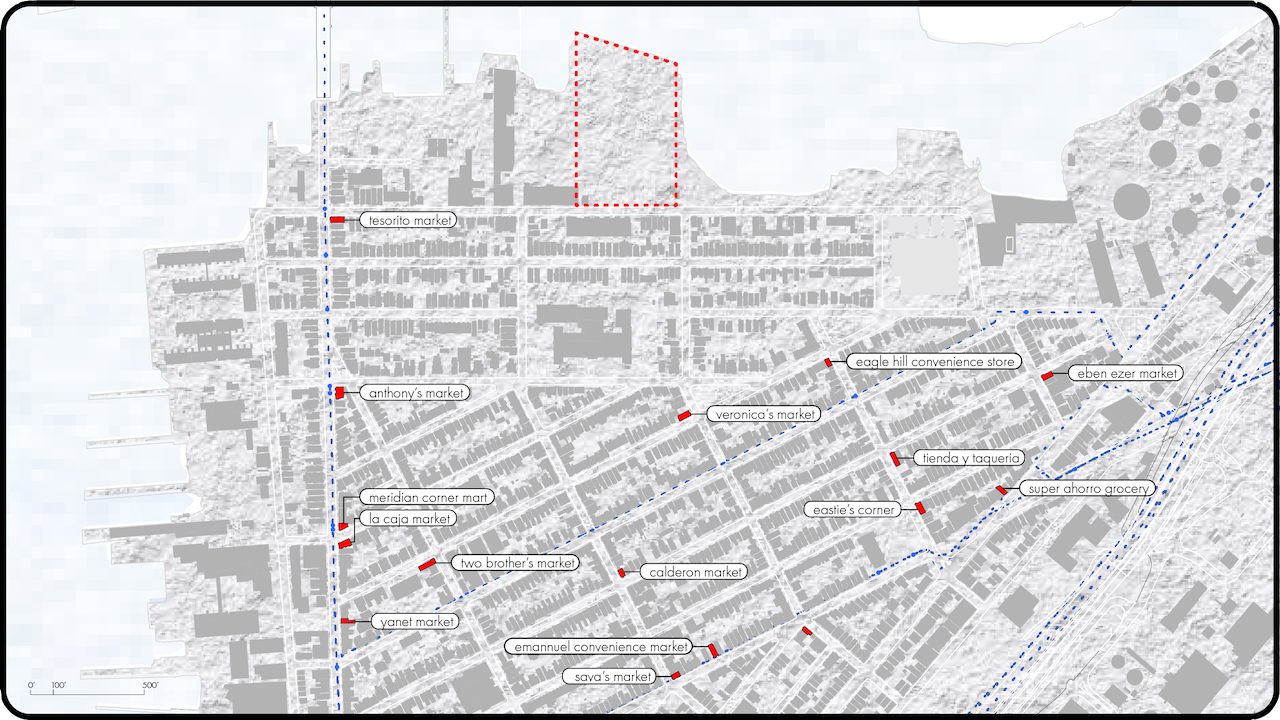
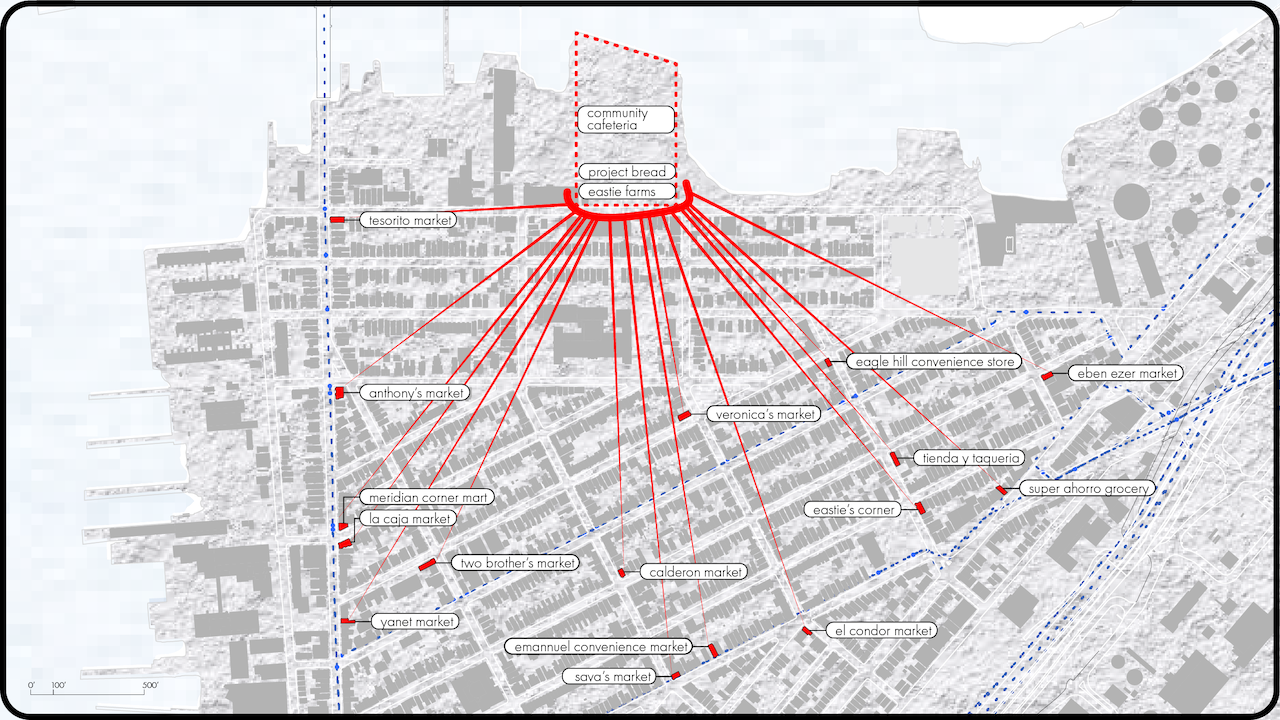
Updates
Made sketches bigger and added in forgotten diagram

diff --git a/01-projects/Katerie/index.html b/01-projects/Katerie/index.html
@@ -181,8 +181,11 @@
 				<img class="mango" src="images/Plan_Walkability.png"/>
 				<p class="short"> The neighborhood has one Shaws that is fairly accessibile via car. Anyone in the neighborhood with access to a vehicle can get to the grocery store within 5 minutes. However, these diagrams are showing what it's like to live in a walkable city and how the residents and business owners were able to fill in the gaps in the infrastructure with the various corner stores. The last shot is showing a 5 minute walkable radius in each circle. Most of the neighborhood is covered except for the area in the top, near the main site.   
 				<h3>Scalar Interventions</h3>
+				<img class="mango" src="images/NetworkPlan.png"/>
 				<img class="mango" src="images/BayWindows.png"/>
-				<img class="mango" src="images/Sketches.png"/>
+				<img class="mango" src="images/Sketch3.png"/>
+				<img class="mango" src="images/Sketch2.png"/>
+				<img class="mango" src="images/Sketch.png"/>
 				<img class="mango" src="images/BayPlan.png"/>
 				<img class="mango" src="images/BayElev.png"/>
 				<img class="mango" src="images/ParkletPlan.png"/>
